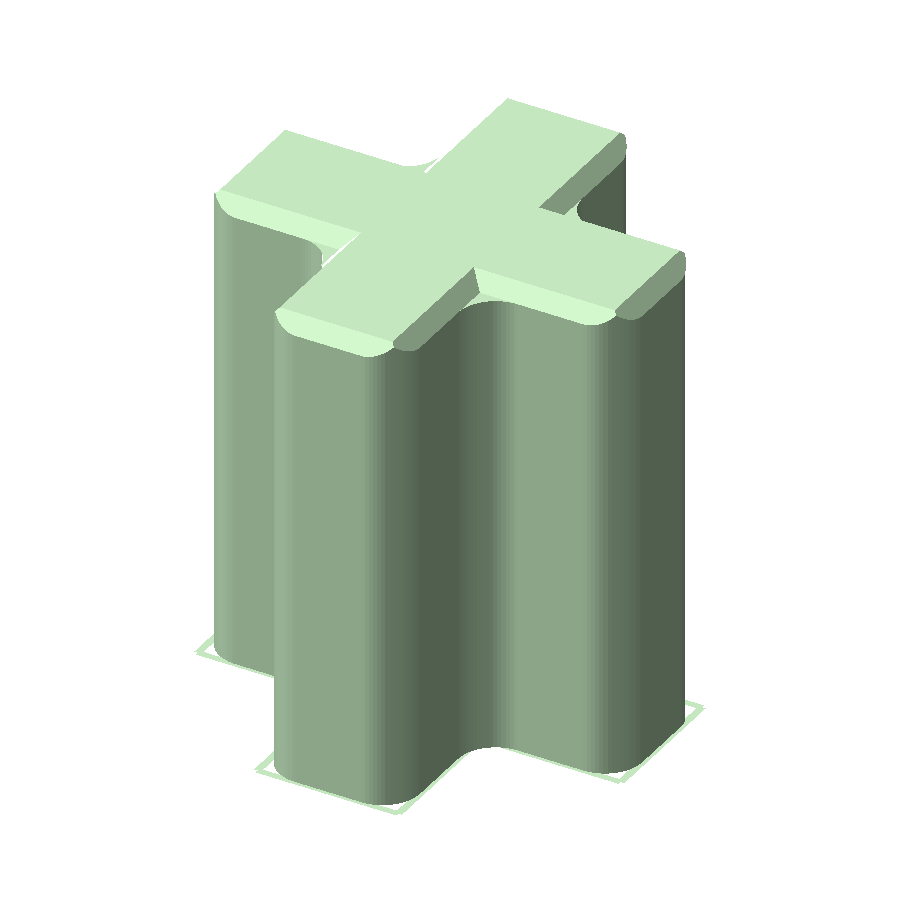
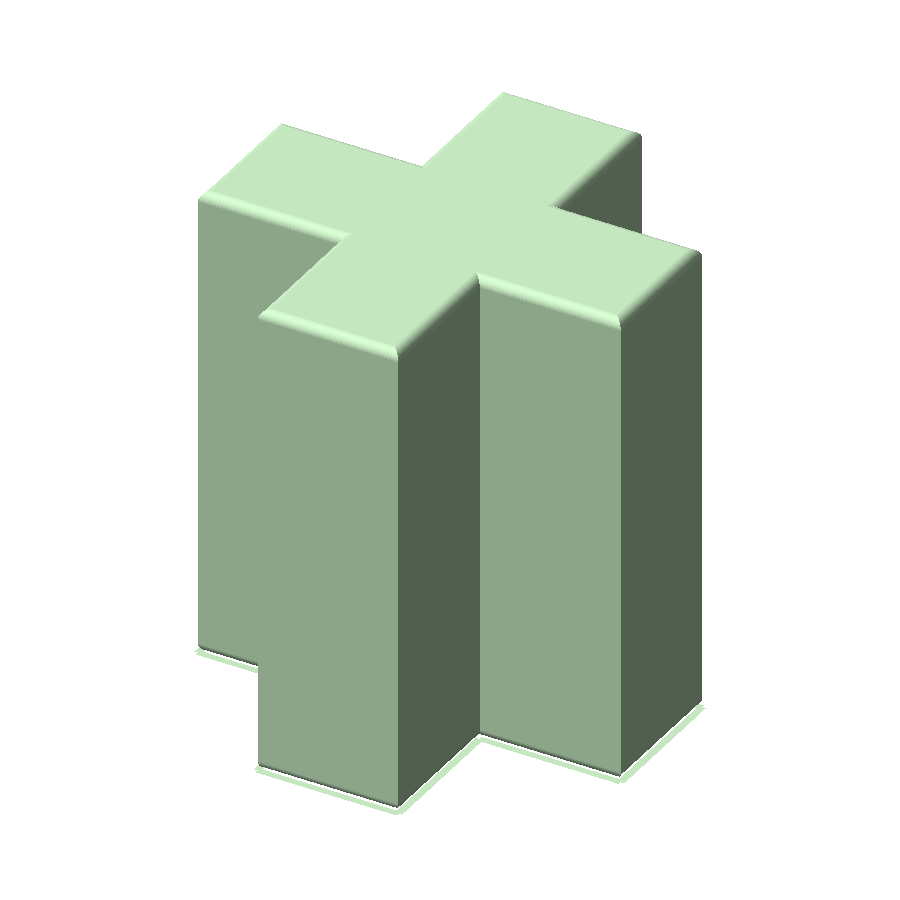
Showcase: round only the rims, as the drawing does
The reference drawing's plan corners are sharp: only the top and bottom rim
edges carry a ~1 mm round. The showcase used a 1.5 mm chamfer on the top rim
and a 4 mm fillet on the twelve vertical edges, which visibly rounded the
plan corners.

The rounded variant now fillets the top and bottom rims with round_r = 1.0
and leaves the vertical edges sharp, so the rounded bands stop at the
corners exactly as in the drawing. The BEVEL knob is gone; the rounded
.agcad program holds the two rim fillets.

The baseline artifacts and the baseline .agcad are unchanged apart from the
embedded recipe text. Rounded mesh: 56212 mm³ after the top rim, 56173 mm³ /
1324 tris after the bottom. Save -> open -> save and re-render are
byte-identical; height 30 -> 50 reproduces the saved mesh.

diff --git a/examples/cross_block.py b/examples/cross_block.py
@@ -1,19 +1,17 @@
 """Reproduce examples/example_body.png from its two views.
 
 The reference drawing shows a plus-shaped prism: two 45 x 15 mm bars crossed
-and extruded 50 mm, with ~1 mm fillets on the edges. The left panel is a
-front view (45 mm wide, 50 mm tall); the right panel is a 3/4 view.
+and extruded 50 mm, with ~1 mm fillets on the top and bottom rims. The left
+panel is a front view (45 mm wide, 50 mm tall); the right panel is a 3/4 view.
 
 The plus profile is drawn as twelve parametric lines and extruded, so the
 shape is driven by `span`, `arm` and `height` — change one and the sketch
 re-solves and the solid rebuilds.
 
-The script keeps a sharp baseline for the silhouette comparison, then
-demonstrates agcad's edge tools on the same program: `chamfer` the top rim
-and `fillet` the twelve vertical edges, driven by the `bevel` and `round_r`
-knobs. (Rim treatments come before vertical ones: the later vertical fillet
-trims the rim band cleanly; re-cutting an already-rounded rim is slow and
-noisy.)
+The script keeps a sharp baseline for the silhouette comparison, then rounds
+the part the way the drawing does: a `fillet` on the top and bottom rims,
+driven by the `round_r` knob. The drawing rounds only the rim edges — its
+plan corners are sharp — so the vertical edges are deliberately left alone.
 
 Writes the committed showcase into ``examples/cross_block/``: ``iso.png``,
 ``front.png``, ``cross_block.stl``, ``cross_block.agcad`` (the sharp
@@ -42,9 +40,10 @@ GREEN = (0.85, 1.0, 0.83, 1.0)
 # front panel is 553 x 614 px, so the body is 45 x 45 mm in plan and 50 tall.
 SPAN, ARM, HEIGHT = 45.0, 15.0, 50.0
 
-# Edge treatment for the rounded variant. The drawing's own fillets are
-# ~1 mm; these are exaggerated a little so the render reads at a glance.
-ROUND_R, BEVEL = 4.0, 1.5
+# Edge treatment for the rounded variant. The drawing rounds only the top and
+# bottom rims (~1 mm) and leaves the plan corners sharp, so the fillets go on
+# the rim edges only.
+ROUND_R = 1.0
 
 REFERENCE = os.path.join("examples", "example_body.png")
 OUT_DIR = os.path.join("examples", "cross_block")
@@ -185,18 +184,16 @@ def main() -> None:
     # --- edge treatment ------------------------------------------------------
     # The same program, two more commands. Both reshape the solid in place, so
     # the entity keeps its id and the camera / STL export still refer to it.
-    # The top rim goes first: the vertical fillet then runs through the
-    # chamfer band and trims its corners, so the two treatments blend. The
-    # reverse order would re-cut an already rounded rim into hundreds of tiny
-    # facets (slow, and noisy).
-    cad.set_parameter(doc, "round_r", ROUND_R, "radius of the vertical edges")
-    cad.set_parameter(doc, "bevel", BEVEL, "chamfer on the top rim")
+    # The drawing rounds only the top and bottom rims; its plan corners are
+    # sharp. Filleting the two rims — and not the twelve vertical edges —
+    # reproduces that: the rounded bands stop at the sharp corners.
+    cad.set_parameter(doc, "round_r", ROUND_R, "radius of the top and bottom rims")
     eid = solid["entity"]
-    chamfer = cad.chamfer(doc, eid, "bevel", edges={"normals": [[0, 0, 1]]})
-    print(f"chamfer top rim: {chamfer['edges']} edges -> {chamfer['volume']:.0f} mm³")
-    fillet = cad.fillet(doc, eid, "round_r", edges={"direction": [0, 0, 1]})
-    print(f"fillet vertical: {fillet['edges']} edges -> {fillet['volume']:.0f} mm³, "
-          f"{len(fillet['mesh']['indices']) // 3} tris")
+    top = cad.fillet(doc, eid, "round_r", edges={"normals": [[0, 0, 1]]})
+    print(f"fillet top rim: {top['edges']} edges -> {top['volume']:.0f} mm³")
+    bottom = cad.fillet(doc, eid, "round_r", edges={"normals": [[0, 0, -1]]})
+    print(f"fillet bottom rim: {bottom['edges']} edges -> {bottom['volume']:.0f} mm³, "
+          f"{len(bottom['mesh']['indices']) // 3} tris")
 
     png = cad.render_offscreen(
         doc, width=900, height=900,

diff --git a/README.md b/README.md
@@ -41,15 +41,16 @@ is 553 × 614 px at the drawing's own 9 mm scale bar, so the body is
 45 × 45 mm in plan, 15 mm arms and 50 mm tall. The reproduction's camera was
 fitted by comparing silhouettes (0.99 IoU), and its front view matches the
 drawing's aspect to ~0.1% (0.898 vs 0.899). The baseline keeps sharp edges so
-the silhouette comparison stays unambiguous; the script then adds two edge
-commands — a 1.5 mm `chamfer` on the top rim and a 4 mm `fillet` on the twelve
-vertical edges — driven by the `bevel` and `round_r` knobs:
+the silhouette comparison stays unambiguous; the script then rounds it the
+way the drawing does — a 1 mm `fillet` on the top and bottom rims, driven by
+the `round_r` knob. The drawing's plan corners are sharp, so the twelve
+vertical edges are deliberately left alone:
 
-![the cross block with a chamfered top rim and rounded vertical edges](examples/cross_block/rounded.png)
+![the cross block with its top and bottom rims rounded and sharp plan corners](examples/cross_block/rounded.png)
 
-Both operations reshape the solid in place, so the entity id, camera and STL
-export still apply. Turning `height` down to 30 mm replays the sketch, the
-extrude and both edge commands, so the rounding follows the new geometry.
+`fillet` reshapes the solid in place, so the entity id, camera and STL export
+still apply. Turning `height` down to 30 mm replays the sketch, the extrude
+and both rim fillets, so the rounding follows the new geometry.
 
 The loop this exercises, end to end:
 
@@ -58,9 +59,10 @@ The loop this exercises, end to end:
    sketch lines, `extrude` into a watertight solid.
 3. **Check** with `render_offscreen` in orthographic mode from the drawing's
    camera, and compare the silhouette.
-4. **Finish** the edges with `chamfer`/`fillet` and a geometric edge filter —
-   `{normals:[[0,0,1]]}` for the top rim, `{direction:[0,0,1]}` for the
-   vertical corners — so the part reads as a moulded body, not a block-out.
+4. **Finish** the edges with `fillet` and a geometric edge filter —
+   `{normals:[[0,0,1]]}` for the top rim, `{normals:[[0,0,-1]]}` for the
+   bottom — so the part reads as a moulded body, not a block-out. `chamfer`
+   shares the same machinery; this drawing has rounds, not bevels.
 5. **Deliver** `cross_block_rounded.stl` for the slicer, and the matching
    `.agcad` (program + parameter values) so the part reopens with its knobs
    intact.
@@ -344,8 +346,9 @@ profile with holes → extrude → STL → render),
 model reproduction: `examples/example_body.png` is read for its two views
 (45 x 45 mm cross, 15 mm arms, 50 mm tall), rebuilt as a parametric plus
 profile and extruded, rendered from a camera fitted to the drawing, then
-finished with a `chamfer` on the top rim and a `fillet` on the vertical
-edges — and `examples/save_load.py` (save → open in a fresh engine → change
+finished with a `fillet` on the top and bottom rims — the drawing's plan
+corners are sharp, so the vertical edges stay sharp too — and
+`examples/save_load.py` (save → open in a fresh engine → change
 a knob → export back to Python and run it).
 
 Also in the roadmap but not started: 3MF export, and sketches placed on
